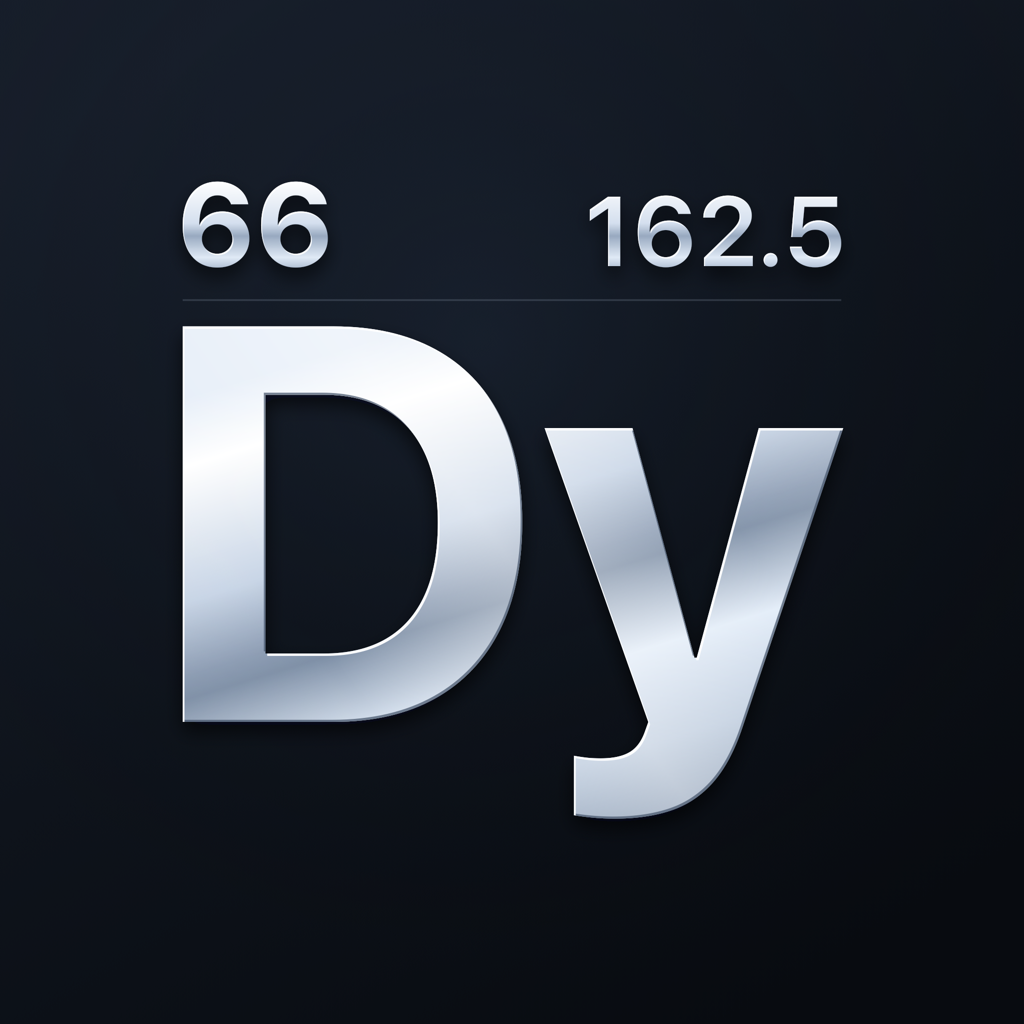
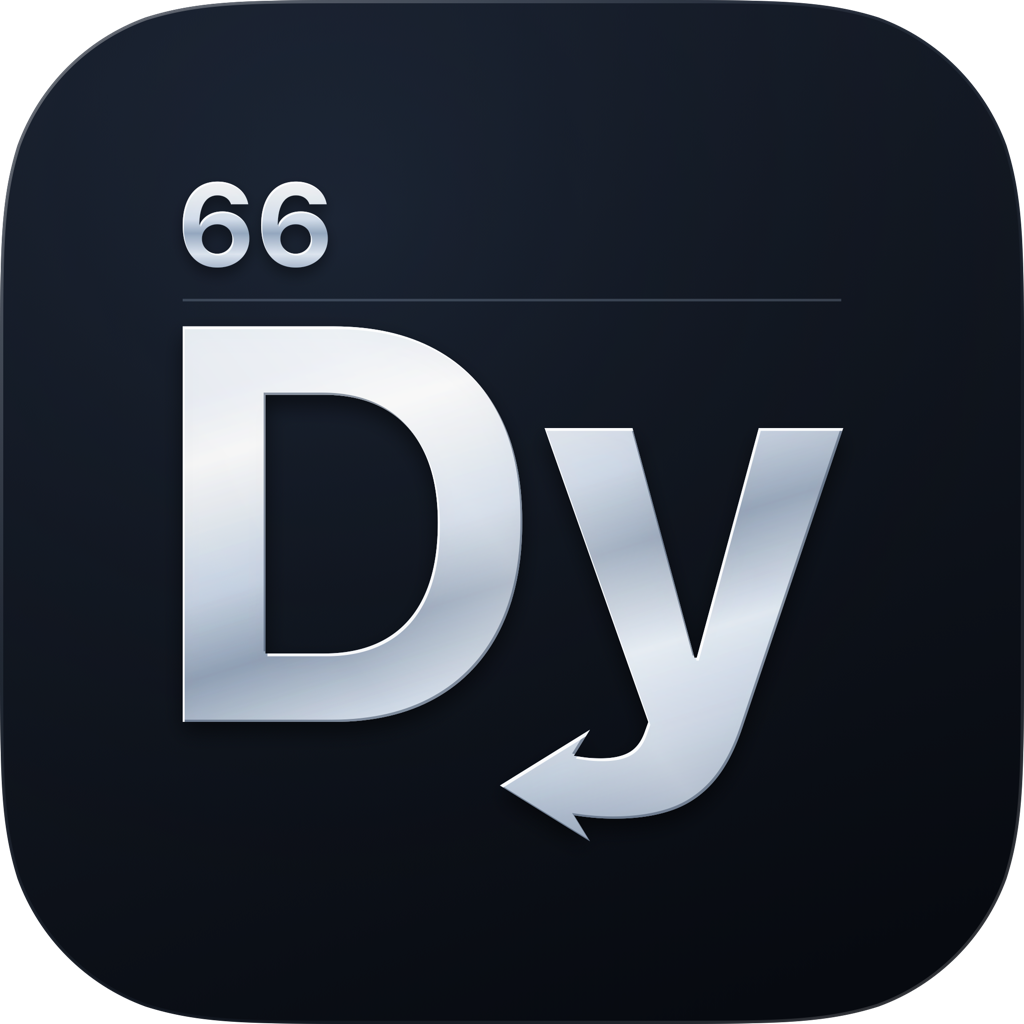
Update README to render synced AppIcon SVGs with squircle silhouette

diff --git a/README.md b/README.md
@@ -1,8 +1,8 @@
 <p align="center">
   <picture>
-    <source media="(prefers-color-scheme: dark)" srcset="DesignAssets/AppIconFinal/AppIcon-Dark.png">
-    <source media="(prefers-color-scheme: light)" srcset="DesignAssets/AppIconFinal/AppIcon-Light.png">
-    <img src="DesignAssets/AppIconFinal/AppIcon-Dark.png" width="112" height="112" alt="Dysprosium App Icon">
+    <source media="(prefers-color-scheme: dark)" srcset="DesignAssets/AppIconFinal/AppIcon-Dark.svg">
+    <source media="(prefers-color-scheme: light)" srcset="DesignAssets/AppIconFinal/AppIcon-Light.svg">
+    <img src="DesignAssets/AppIconFinal/AppIcon-Dark.svg" width="112" height="112" alt="Dysprosium App Icon">
   </picture>
 </p>
 
